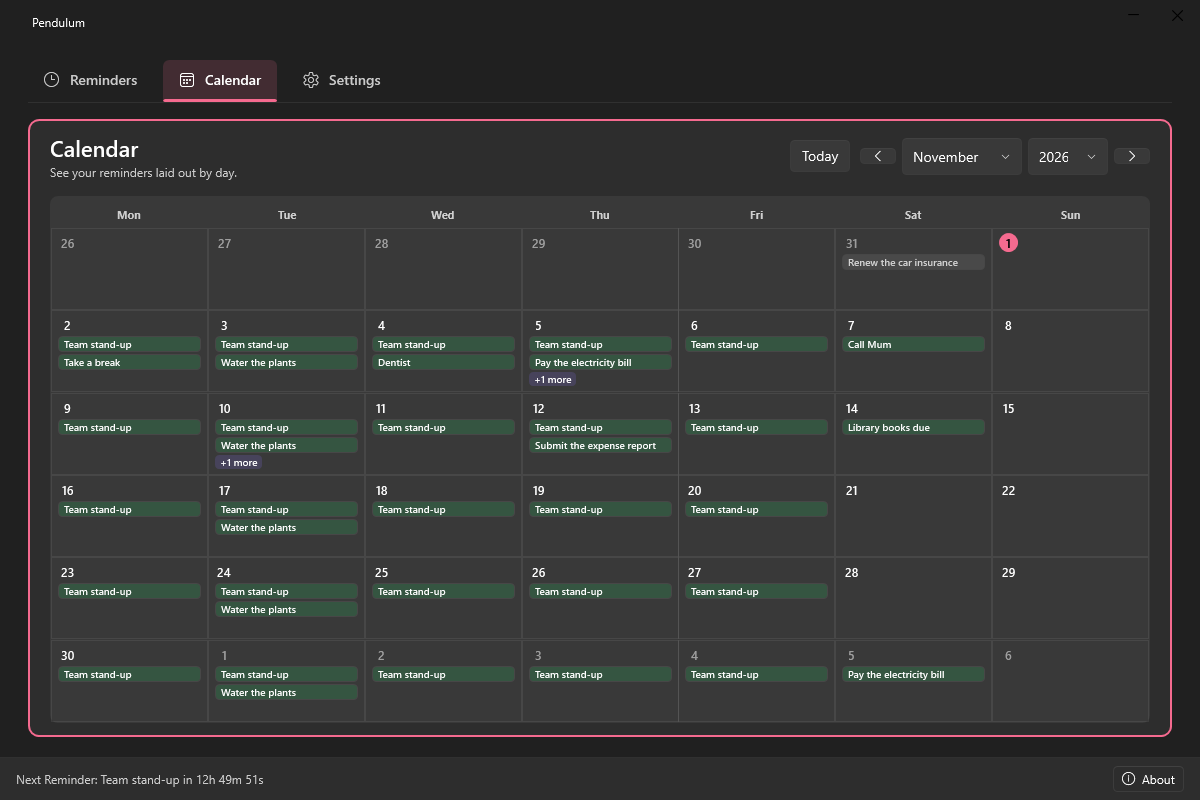
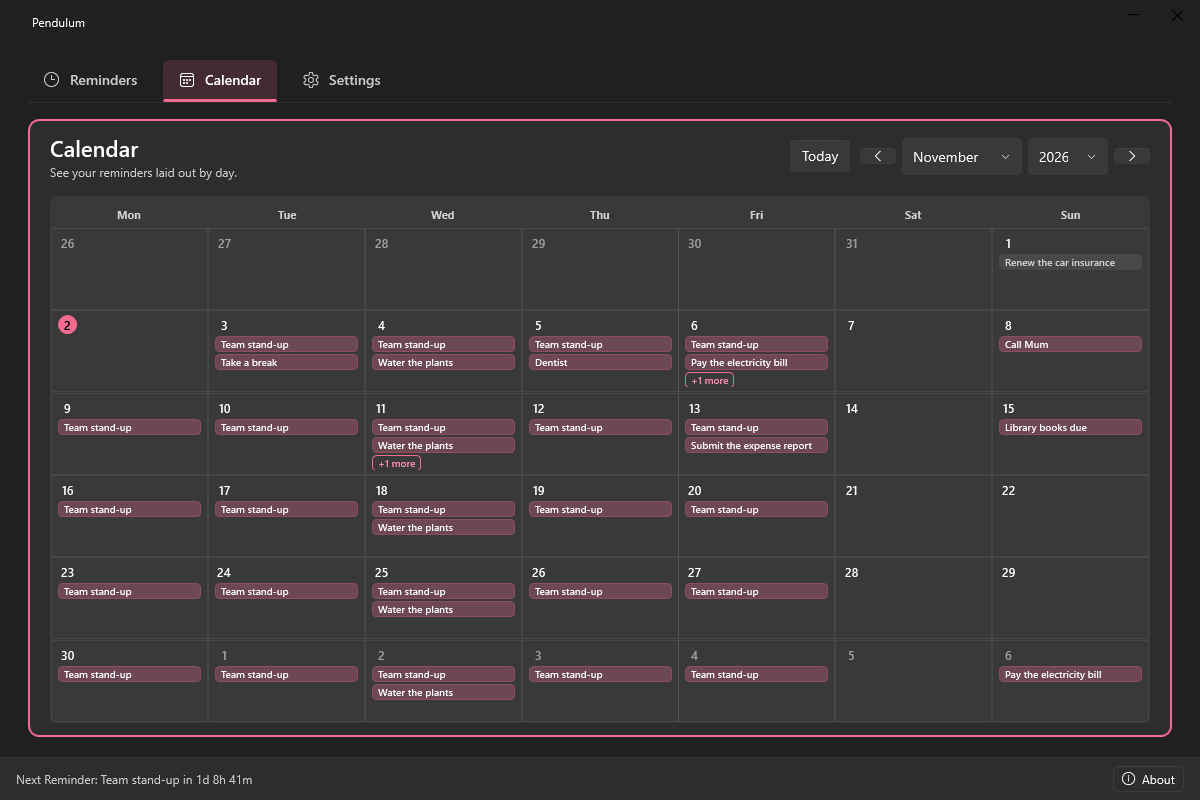
Colour the calendar's chips in the app's rose, in light and dark
The calendar's reminder chips were a dark green and its "+N more" chips
a muted purple, left from before the accent became rose. The chips are
now a rose tint of the accent with a rose edge, and "+N more" a rose
outline with rose text, so the two still tell apart; a reminder that
has fired stays neutral, as before. AppThemeManager sets the new
brushes for each theme. Text keeps WCAG AA contrast on both in light
and dark.

The "+N more" list was drawn on a fixed dark grey, unreadable in the
light theme: it now takes the calendar's own background in each theme.

The README's calendar picture is redrawn.

Keep "+N more" readable while its list is open

Open, the "+N more" chip fills with the chips' rose tint; its rose text
on that tint fell to 3.7:1 in the dark theme. While open it now takes
the chips' own text colour, 7.9:1 in dark and 11.6:1 in light.

diff --git a/Pendulum.App/Views/CalendarPanel.xaml b/Pendulum.App/Views/CalendarPanel.xaml
@@ -11,20 +11,20 @@
     <UserControl.Resources>
         <BooleanToVisibilityConverter x:Key="BoolToVis"/>
         <conv:DateTimeDisplayConverter x:Key="DateTimeDisplay"/>
-        <SolidColorBrush x:Key="UpcomingBadgeBrush" Color="#3322C55E"/>
-        <SolidColorBrush x:Key="ScheduledBadgeBrush" Color="#337C6AE0"/>
-        <SolidColorBrush x:Key="ColumnFilterPopupOpaqueBrush" Color="#FF2D2D2D"/>
 
+        <!-- A reminder chip: a rose tint of the accent (AppThemeManager sets it per theme), or
+             neutral once it has fired. -->
         <Style x:Key="ReminderPillBadge" TargetType="Border">
             <Setter Property="CornerRadius" Value="4"/>
             <Setter Property="Padding" Value="5,0,5,1"/>
             <Setter Property="BorderThickness" Value="1"/>
-            <Setter Property="BorderBrush" Value="{DynamicResource ControlStrokeColorDefaultBrush}"/>
+            <Setter Property="BorderBrush" Value="{DynamicResource PendulumChipStrokeBrush}"/>
             <Setter Property="Margin" Value="0,0,0,2"/>
-            <Setter Property="Background" Value="{StaticResource UpcomingBadgeBrush}"/>
+            <Setter Property="Background" Value="{DynamicResource PendulumChipBrush}"/>
             <Style.Triggers>
                 <DataTrigger Binding="{Binding HasFired}" Value="True">
                     <Setter Property="Background" Value="{DynamicResource ControlFillColorSecondaryBrush}"/>
+                    <Setter Property="BorderBrush" Value="{DynamicResource ControlStrokeColorDefaultBrush}"/>
                 </DataTrigger>
             </Style.Triggers>
         </Style>
@@ -56,25 +56,36 @@
                 </Setter.Value>
             </Setter>
         </Style>
+        <!-- "+N more": secondary to the chips, a rose outline with rose text; while its list is
+             open, filled with the chips' tint and the text the chips' own (rose text on the tint
+             would fall below 4.5:1 in the dark theme). -->
         <Style x:Key="OverflowChip" TargetType="ToggleButton">
             <Setter Property="Padding" Value="5,0,5,1"/>
             <Setter Property="HorizontalAlignment" Value="Left"/>
-            <Setter Property="Background" Value="{StaticResource ScheduledBadgeBrush}"/>
-            <Setter Property="Foreground" Value="{DynamicResource TextFillColorPrimaryBrush}"/>
-            <Setter Property="BorderThickness" Value="0"/>
+            <Setter Property="Background" Value="Transparent"/>
+            <Setter Property="BorderBrush" Value="{DynamicResource PendulumAccentBrush}"/>
+            <Setter Property="Foreground" Value="{DynamicResource PendulumAccentTextBrush}"/>
+            <Setter Property="BorderThickness" Value="1"/>
             <Setter Property="Cursor" Value="Hand"/>
             <Setter Property="Template">
                 <Setter.Value>
                     <ControlTemplate TargetType="ToggleButton">
-                        <Border Background="{TemplateBinding Background}" CornerRadius="4" Padding="{TemplateBinding Padding}">
+                        <Border Background="{TemplateBinding Background}" BorderBrush="{TemplateBinding BorderBrush}"
+                                BorderThickness="{TemplateBinding BorderThickness}" CornerRadius="4" Padding="{TemplateBinding Padding}">
                             <ContentPresenter/>
                         </Border>
                     </ControlTemplate>
                 </Setter.Value>
             </Setter>
+            <Style.Triggers>
+                <Trigger Property="IsChecked" Value="True">
+                    <Setter Property="Background" Value="{DynamicResource PendulumChipBrush}"/>
+                    <Setter Property="Foreground" Value="{DynamicResource TextFillColorPrimaryBrush}"/>
+                </Trigger>
+            </Style.Triggers>
         </Style>
         <Style x:Key="OverflowPopupBorder" TargetType="Border">
-            <Setter Property="Background" Value="{StaticResource ColumnFilterPopupOpaqueBrush}"/>
+            <Setter Property="Background" Value="{DynamicResource PendulumPopupBrush}"/>
             <Setter Property="BorderBrush" Value="{DynamicResource ControlStrokeColorDefaultBrush}"/>
             <Setter Property="BorderThickness" Value="1"/>
             <Setter Property="CornerRadius" Value="6"/>

diff --git a/Pendulum.App/App.xaml b/Pendulum.App/App.xaml
@@ -14,9 +14,13 @@
             <!-- Pendulum's own accent brushes: AppThemeManager sets each per theme. These are the
                  dark theme's, until it runs. The accent marks the selected tab and the panel's
                  frame, today in the calendar and the sort arrows; links take their own shade, readable
-                 on light and dark alike. -->
+                 on light and dark alike. The calendar's chips are tints of it. -->
             <SolidColorBrush x:Key="PendulumAccentBrush" Color="#F56A8F"/>
             <SolidColorBrush x:Key="PendulumAccentSoftBrush" Color="#29F56A8F"/>
+            <SolidColorBrush x:Key="PendulumAccentTextBrush" Color="#FF8FB0"/>
+            <SolidColorBrush x:Key="PendulumChipBrush" Color="#47F56A8F"/>
+            <SolidColorBrush x:Key="PendulumChipStrokeBrush" Color="#73F56A8F"/>
+            <SolidColorBrush x:Key="PendulumPopupBrush" Color="#2D2D2D"/>
             <SolidColorBrush x:Key="PendulumLinkBrush" Color="#FF8FB0"/>
             <Style TargetType="Hyperlink">
                 <Setter Property="Foreground" Value="{DynamicResource PendulumLinkBrush}"/>

diff --git a/Pendulum.App/Services/AppThemeManager.cs b/Pendulum.App/Services/AppThemeManager.cs
@@ -21,6 +21,17 @@ internal static class AppThemeManager
     public const string AccentBrushKey = "PendulumAccentBrush";  // not user-visible
     public const string AccentSoftBrushKey = "PendulumAccentSoftBrush";  // not user-visible
 
+    /// Accent-coloured text (the calendar's "+N more").
+    public const string AccentTextBrushKey = "PendulumAccentTextBrush";  // not user-visible
+
+    /// The calendar's reminder chips: a rose tint of the accent and a stronger rose edge.
+    public const string ChipBrushKey = "PendulumChipBrush";  // not user-visible
+    public const string ChipStrokeBrushKey = "PendulumChipStrokeBrush";  // not user-visible
+
+    /// An opaque surface for popups that hold the panel's own content (the calendar's "+N more"
+    /// list): the panel's background, solid, so what's behind doesn't show through.
+    public const string PopupBrushKey = "PendulumPopupBrush";  // not user-visible
+
     /// The accent for one theme. WPF-UI 3 uses `Fill` for primary buttons, toggles and checked
     /// boxes, `Hover` for a primary button under the pointer and its other accent fills, and
     /// `Text` for accent-coloured text; `System` is the selection highlight. On light, labels on
@@ -35,6 +46,18 @@ internal static class AppThemeManager
     //        Text and Link 6.0:1 or more.
     private static readonly Accent OnLight = new(System: "#D23A66", Fill: "#C7305E", Hover: "#A3234B", Text: "#A3234B", Link: "#A3234B");
     private static readonly Accent OnDark = new(System: "#F0567F", Fill: "#F56A8F", Hover: "#FF8FB0", Text: "#FF8FB0", Link: "#FF8FB0");
+
+    // The calendar's chips: the accent's fill at 28% (its edge at 45%) over the calendar's
+    // background. Measured in the rendered calendar, WCAG 2: the theme's primary text on a chip,
+    // light 11.1:1 and dark 7.9:1; "+N more" in the accent's text colour on the calendar, light
+    // 7.2:1 and dark 5.4:1. Open, "+N more" takes the chip's tint and the chip's text (rose text
+    // on the tint would be 3.7:1 in dark).
+    private const byte ChipAlpha = 0x47;
+    private const byte ChipStrokeAlpha = 0x73;
+
+    // The calendar's background (ControlFillColorDefault over the window), made opaque.
+    private const string PopupOnLight = "#FBFBFB";
+    private const string PopupOnDark = "#2D2D2D";
 
     public static void Apply(ThemeMode mode)
     {
@@ -59,9 +82,18 @@ internal static class AppThemeManager
 
         SetBrush(LinkBrushKey, Parse(accent.Link));
         SetBrush(AccentBrushKey, Parse(accent.Fill));
-        var soft = Parse(accent.Fill);
-        soft.A = 0x29;
-        SetBrush(AccentSoftBrushKey, soft);
+        SetBrush(AccentSoftBrushKey, WithAlpha(accent.Fill, 0x29));
+        SetBrush(AccentTextBrushKey, Parse(accent.Text));
+        SetBrush(ChipBrushKey, WithAlpha(accent.Fill, ChipAlpha));
+        SetBrush(ChipStrokeBrushKey, WithAlpha(accent.Fill, ChipStrokeAlpha));
+        SetBrush(PopupBrushKey, Parse(theme == ApplicationTheme.Dark ? PopupOnDark : PopupOnLight));
+    }
+
+    private static Color WithAlpha(string hex, byte alpha)
+    {
+        var color = Parse(hex);
+        color.A = alpha;
+        return color;
     }
 
     // WPF-UI's order: the system accent, then primary (fills), secondary (hover and the other

diff --git a/CHANGELOG.md b/CHANGELOG.md
@@ -123,6 +123,9 @@ and this project follows [Semantic Versioning](https://semver.org/).
   it listens no longer leaves Quick Reminder stuck on "Listening".
 
 ### Changed
+- The calendar's reminder chips and "+N more" are now rose, to match the app's
+  colour, in light and dark, instead of green and purple. The "+N more" list
+  follows the theme too, rather than staying dark in the light theme.
 - With several alerts open, only the newest makes a sound; the others stay on
   screen, marked as waiting. Dismiss or snooze it and the next newest rings,
   saying its phrase once. A "Dismiss all" button appears when more than one
